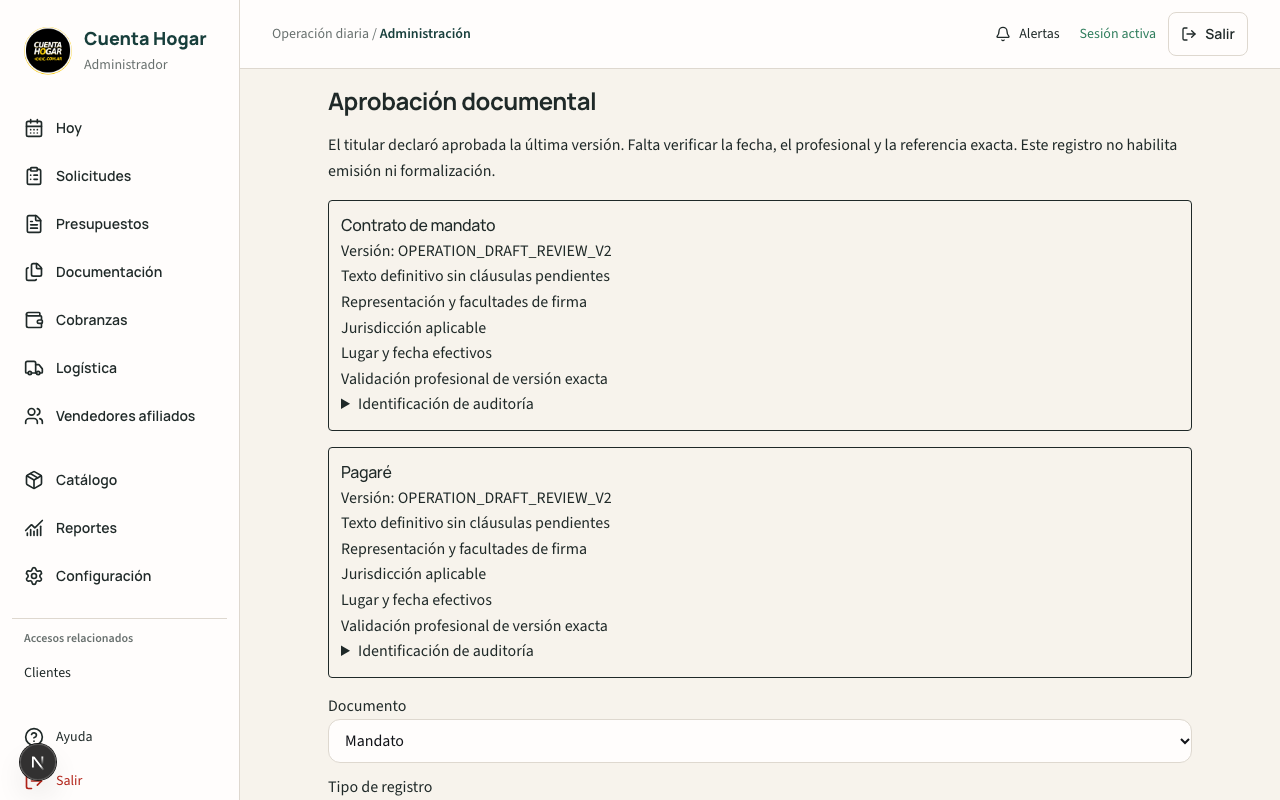
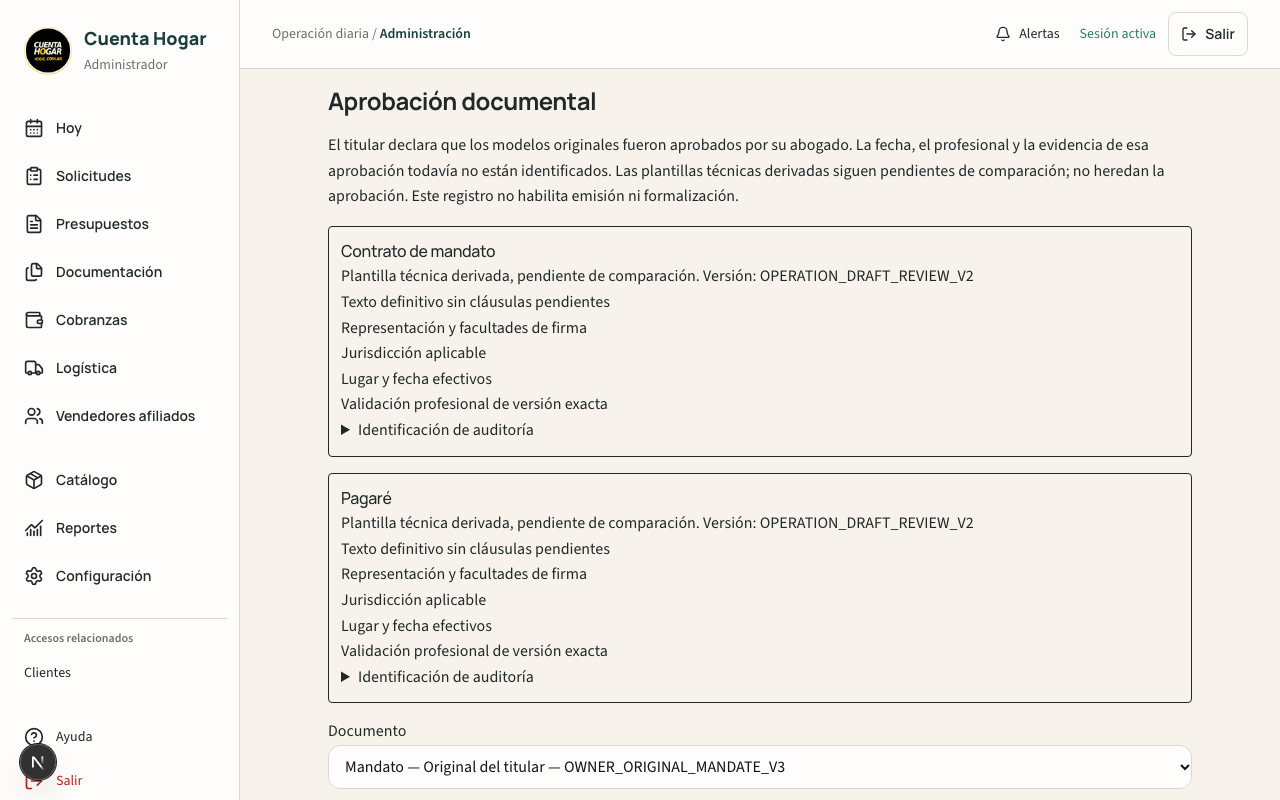
fix: bind legal approvals to exact owner originals

Changed region(s): [[0.25, 0.1562, 0.9062, 1.0], [0.7188, 0.3438, 0.75, 0.375]]

diff --git a/src/app/admin/aprobacion-documental/page.tsx b/src/app/admin/aprobacion-documental/page.tsx
@@ -1,18 +1,18 @@
 'use client';
 import { useCallback,useEffect,useRef,useState } from 'react';
 import { useAuth } from '@/components/AuthProvider';
-import type { LegalArtifact,LegalApprovalRecord } from '@/lib/legalApprovalV2';
+import type { LegalArtifact,LegalApprovalRecord,LegalSource } from '@/lib/legalApprovalV2';
 import { btn,control } from '@/components/admin/contracts/ContractDataFields';
-interface View {artifacts:LegalArtifact[];records:(LegalApprovalRecord&{id:string})[]}
+interface View {registrableArtifacts:(LegalArtifact&{source:LegalSource})[];artifacts:LegalArtifact[];records:(LegalApprovalRecord&{id:string})[]}
 export default function LegalApprovalPage(){
- const {user}=useAuth(),[view,setView]=useState<View|null>(null),[message,setMessage]=useState(''),[busy,setBusy]=useState(false);
+ const {user}=useAuth(),[view,setView]=useState<View|null>(null),[message,setMessage]=useState(''),[busy,setBusy]=useState(false),[selected,setSelected]=useState('owner-original-mandate-v3');
  const flight=useRef(false),pending=useRef<{payload:string;commandId:string}|null>(null);
  const load=useCallback(async()=>{if(!user)return;const r=await fetch('/api/admin/aprobaciones-documentales',{cache:'no-store',headers:{Authorization:`Bearer ${await user.getIdToken()}`}});if(!r.ok)throw Error('No se pudo consultar el registro.');setView(await r.json());},[user]);
  useEffect(()=>{void load().catch(e=>setMessage(e.message));},[load]);
- async function save(form:HTMLFormElement){if(!user||flight.current||!view)return;const f=new FormData(form),artifact=view.artifacts.find(a=>a.kind===f.get('kind'));if(!artifact)return;
- const verified=f.get('status')==='VERIFIED',approval={kind:artifact.kind,version:artifact.version,textHash:artifact.textHash,status:verified?'VERIFIED':'OWNER_REPORTED',approvalDate:verified?String(f.get('date')):null,professional:verified?String(f.get('professional')):null,validationReference:verified?String(f.get('reference')):null,evidence:null};
+ async function save(form:HTMLFormElement){if(!user||flight.current||!view)return;const f=new FormData(form),artifact=view.registrableArtifacts.find(a=>a.source.documentId===f.get('document'));if(!artifact)return;
+ const verified=f.get('status')==='VERIFIED',approval={source:artifact.source,kind:artifact.kind,version:artifact.version,textHash:artifact.textHash,status:verified?'VERIFIED':'OWNER_REPORTED',approvalDate:String(f.get('date')||'').trim()||null,professional:String(f.get('professional')||'').trim()||null,validationReference:String(f.get('reference')||'').trim()||null,evidence:null};
  const payload=JSON.stringify(approval);if(pending.current?.payload!==payload)pending.current={payload,commandId:crypto.randomUUID()};flight.current=true;setBusy(true);setMessage('');
  try{const r=await fetch('/api/admin/aprobaciones-documentales',{method:'POST',headers:{Authorization:`Bearer ${await user.getIdToken()}`,'Content-Type':'application/json'},body:JSON.stringify({commandId:pending.current.commandId,approval})});if(!r.ok)throw Error((await r.json()).error);pending.current=null;await load();setMessage('Registro guardado. La emisión productiva continúa bloqueada.');}catch(e){setMessage(e instanceof Error?e.message:'No se confirmó el registro.');}finally{flight.current=false;setBusy(false);}
  }
- return <main className="mx-auto max-w-4xl space-y-4 p-4"><h1 className="text-2xl font-bold">Aprobación documental</h1><p>El titular declaró aprobada la última versión. Falta verificar la fecha, el profesional y la referencia exacta. Este registro no habilita emisión ni formalización.</p>{message&&<p role="status">{message}</p>}{view?.artifacts.map(a=><section className="rounded border p-3" key={a.kind}><h2>{a.kind==='MANDATE'?'Contrato de mandato':'Pagaré'}</h2><p>Versión: {a.version}</p><ul>{a.pending.map(p=><li key={p}>{p}</li>)}</ul><details><summary>Identificación de auditoría</summary><p className="break-all">{a.textHash}</p></details></section>)}<form className="grid gap-3" onSubmit={e=>{e.preventDefault();void save(e.currentTarget);}}><label>Documento<select className={control} name="kind"><option value="MANDATE">Mandato</option><option value="PROMISSORY_NOTE">Pagaré</option></select></label><label>Tipo de registro<select className={control} name="status"><option value="OWNER_REPORTED">Declaración del titular, sin validación documental</option><option value="VERIFIED">Referencia profesional verificada por Administración</option></select></label><label>Fecha de aprobación<input className={control} name="date" type="date"/></label><label>Profesional interviniente<input className={control} name="professional" maxLength={500}/></label><label>Referencia de validación<input className={control} name="reference" maxLength={500}/></label><label><input type="checkbox" required/> Confirmo que el registro corresponde exactamente al texto y la versión indicados</label><button className={btn} disabled={busy}>Registrar validación</button></form><h2>Registros recientes</h2>{view?.records.map(r=><article className="break-words rounded border p-3" key={r.id}>{r.kind} · {r.status==='VERIFIED'?'Referencia profesional registrada':'Declaración pendiente de verificación'} · {r.recordedAt}<p>{r.version} · {r.professional||'Profesional pendiente'}</p></article>)}</main>;
+ return <main className="mx-auto max-w-4xl space-y-4 p-4"><h1 className="text-2xl font-bold">Aprobación documental</h1><p>El titular declara que los modelos originales fueron aprobados por su abogado. La fecha, el profesional y la evidencia de esa aprobación todavía no están identificados. Las plantillas técnicas derivadas siguen pendientes de comparación; no heredan la aprobación. Este registro no habilita emisión ni formalización.</p>{message&&<p role="status">{message}</p>}{view?.artifacts.map(a=><section className="rounded border p-3" key={a.kind}><h2>{a.kind==='MANDATE'?'Contrato de mandato':'Pagaré'}</h2><p>Plantilla técnica derivada, pendiente de comparación. Versión: {a.version}</p><ul>{a.pending.map(p=><li key={p}>{p}</li>)}</ul><details><summary>Identificación de auditoría</summary><p className="break-all">{a.textHash}</p></details></section>)}<form className="grid gap-3" onSubmit={e=>{e.preventDefault();void save(e.currentTarget);}}><label>Documento<select className={control} name="document" value={selected} onChange={e=>setSelected(e.target.value)}>{view?.registrableArtifacts.map(a=><option key={a.source.documentId} value={a.source.documentId}>{a.kind==='MANDATE'?'Mandato':'Pagaré'} — {a.source.type==='ORIGINAL_FILE'?'Original del titular':'Plantilla técnica pendiente'} — {a.version}</option>)}</select></label>{view?.registrableArtifacts.filter(a=>a.source.documentId===selected).map(a=><details key={a.source.documentId} open><summary>Archivo o plantilla que se registrará</summary><p className="break-words">{a.source.reference}</p><p>{a.source.type==='ORIGINAL_FILE'?'Original aprobado según declaración del propietario. Validación profesional exacta pendiente de identificar.':'Plantilla técnica derivada pendiente de comparación con el original.'}</p><p className="break-all">SHA-256 ({a.source.hashBasis==='FILE_BYTES'?'bytes del archivo original':'contenido canónico de plantilla'}): {a.textHash}</p></details>)}<label>Tipo de registro<select className={control} name="status"><option value="OWNER_REPORTED">Declaración del titular, sin validación documental</option><option value="VERIFIED">Referencia profesional verificada por Administración</option></select></label><label>Fecha de aprobación<input className={control} name="date" type="date"/></label><label>Profesional interviniente<input className={control} name="professional" maxLength={500}/></label><label>Referencia de validación<input className={control} name="reference" maxLength={500}/></label><label><input type="checkbox" required/> Confirmo que el registro corresponde exactamente al texto y la versión indicados</label><button className={btn} disabled={busy}>Registrar validación</button></form><h2>Registros recientes</h2>{view?.records.map(r=><article className="break-words rounded border p-3" key={r.id}>{r.kind} · {r.status==='VERIFIED'?'Referencia profesional registrada':'Declaración pendiente de verificación'} · {r.recordedAt}<p>{r.source?.reference||'Referencia histórica sin procedencia registrada'}</p><p>{r.version} · {r.professional||'Profesional pendiente'}</p><details><summary>Auditoría del registro</summary><p className="break-all">SHA-256: {r.textHash}</p><p>Fecha de aprobación: {r.approvalDate||'No identificada'}</p><p>Referencia: {r.validationReference||'Pendiente'}</p><p className="break-all">Responsable del registro: {r.recordedBy}</p>{r.evidence&&<p className="break-all">Evidencia privada: {r.evidence.path} · Generación: {r.evidence.generation} · SHA-256: {r.evidence.sha256}</p>}</details></article>)}</main>;
 }

diff --git a/src/lib/legalApprovalV2.ts b/src/lib/legalApprovalV2.ts
@@ -6,7 +6,9 @@ import { OPERATION_DOCUMENT_VERSION } from './contractDocuments/operationDraft';
 
 export type LegalKind = 'MANDATE' | 'PROMISSORY_NOTE';
 export interface LegalArtifact {kind:LegalKind;version:string;textHash:string;pending:string[]}
+export interface LegalSource {documentId:string;reference:string;type:'ORIGINAL_FILE'|'TECHNICAL_TEMPLATE';hashBasis:'FILE_BYTES'|'CANONICAL_TEMPLATE'}
 export interface LegalApprovalRecord {
+ source?:LegalSource;
  schemaVersion:'LEGAL_APPROVAL_V1';kind:LegalKind;version:string;textHash:string;
  status:'OWNER_REPORTED'|'VERIFIED';approvalDate:string|null;professional:string|null;validationReference:string|null;
  evidence:{path:string;sha256:string;generation:string}|null;recordedBy:string;recordedAt:string;
@@ -16,19 +18,32 @@ export const currentLegalArtifacts:readonly LegalArtifact[]=(['MANDATE','PROMISS
  kind,version:OPERATION_DOCUMENT_VERSION,textHash:digest({kind,version:OPERATION_DOCUMENT_VERSION,issuer:contractLegalEntity,text:kind==='MANDATE'?draftClauses:noteDraftText}),
  pending:['Texto definitivo sin cláusulas pendientes','Representación y facultades de firma','Jurisdicción aplicable','Lugar y fecha efectivos','Validación profesional de versión exacta'],
 }));
-export const ownerLegalDeclaration={status:'OWNER_REPORTED' as const,scope:'Última versión, según declaración del titular',verifiedVersion:null,approvalDate:null,professional:null,validationReference:null};
+export const originalLegalArtifacts = [
[2 lines of base64/hex data omitted]
+];
+export const registrableLegalArtifacts = [...originalLegalArtifacts,...currentLegalArtifacts.map(a=>({...a,source:{documentId:'technical-'+a.kind.toLowerCase(),reference:'src/lib/contractDocuments/operationDraftTemplates.ts',type:'TECHNICAL_TEMPLATE' as const,hashBasis:'CANONICAL_TEMPLATE' as const}}))];
+/** Validate new references only; historical records and their command digests remain untouched. */
+export function assertRegistrableApproval(a:ReturnType<typeof approvalInput>) {
+ const found=registrableLegalArtifacts.find(v=>v.kind===a.kind&&v.version===a.version&&v.textHash===a.textHash);
+ if(!found || (a.source ? stable(a.source)!==stable(found.source) : found.source.type==='ORIGINAL_FILE')) throw Error('LEGAL_SOURCE_INCONSISTENT');
+}
+export const ownerLegalDeclaration={status:'OWNER_REPORTED' as const,scope:'Modelos originales entregados, aprobados según declaración del titular; no se transfiere aprobación a plantillas derivadas',verifiedVersion:null,approvalDate:null,professional:null,validationReference:null};
 function fail():never {throw Error('LEGAL_APPROVAL_INVALID');}
 function text(v:unknown,max=500):string {if(typeof v!=='string'||!v.trim()||v.length>max)fail();return v;}
 export function approvalInput(input:unknown) {
- const d=exact(input,['kind','version','textHash','status','approvalDate','professional','validationReference','evidence']);
+ const hasSource=!!input&&typeof input==='object'&&Object.hasOwn(input,'source');
+ const d=exact(input,[...(hasSource?['source']:[]),'kind','version','textHash','status','approvalDate','professional','validationReference','evidence']);
  if(!['MANDATE','PROMISSORY_NOTE'].includes(String(d.kind))||!['OWNER_REPORTED','VERIFIED'].includes(String(d.status))||! /^[a-f0-9]{64}$/.test(String(d.textHash)))fail();text(d.version,120);
- if(d.status==='OWNER_REPORTED') {if([d.approvalDate,d.professional,d.validationReference,d.evidence].some(v=>v!==null))fail();}
- else {
-  if(typeof d.approvalDate!=='string'||!/^\d{4}-\d{2}-\d{2}$/.test(d.approvalDate)||new Date(d.approvalDate).toISOString().slice(0,10)!==d.approvalDate||d.approvalDate>new Date().toISOString().slice(0,10))fail();
-  text(d.professional);text(d.validationReference);
-  // Private evidence is optional; a verified professional reference is mandatory.
-  if(d.evidence!==null){const e=exact(d.evidence,['path','sha256','generation']);if(typeof e.path!=='string'||!/^legal-approvals\/[a-zA-Z0-9_-]+\/[a-zA-Z0-9_.-]+$/.test(e.path)||! /^[a-f0-9]{64}$/.test(String(e.sha256)))fail();text(e.generation,100);}
+ if(hasSource){const source=exact(d.source,['documentId','reference','type','hashBasis']);text(source.documentId,120);text(source.reference,500);if(!['ORIGINAL_FILE','TECHNICAL_TEMPLATE'].includes(String(source.type))||source.hashBasis!==(source.type==='ORIGINAL_FILE'?'FILE_BYTES':'CANONICAL_TEMPLATE'))fail();}
+ // Missing professional metadata never upgrades an owner declaration.
+ if(d.status==='VERIFIED'&&[d.approvalDate,d.professional,d.validationReference].some(v=>v===null))fail();
+ if(d.approvalDate!==null){
+  if(typeof d.approvalDate!=='string'||!/^\d{4}-\d{2}-\d{2}$/.test(d.approvalDate)||!Number.isFinite(Date.parse(d.approvalDate))||new Date(d.approvalDate).toISOString().slice(0,10)!==d.approvalDate||d.approvalDate>new Date().toISOString().slice(0,10))fail();
  }
+ if(d.professional!==null)text(d.professional);
+ if(d.validationReference!==null)text(d.validationReference);
+ if(d.evidence!==null){const e=exact(d.evidence,['path','sha256','generation']);if(typeof e.path!=='string'||!/^legal-approvals\/[a-zA-Z0-9_-]+\/[a-zA-Z0-9_.-]+$/.test(e.path)||! /^[a-f0-9]{64}$/.test(String(e.sha256)))fail();text(e.generation,100);}
  return d as unknown as Omit<LegalApprovalRecord,'schemaVersion'|'recordedBy'|'recordedAt'>;
 }
 /** Eligibility only. No emitter/numbering capability or runtime flag is created here. */
@@ -37,7 +52,7 @@ export function legalIssuanceAssessment(artifacts:readonly LegalArtifact[],recor
  for(const kind of ['MANDATE','PROMISSORY_NOTE'] as const){const artifact=artifacts.find(a=>a.kind===kind);if(!artifact||artifacts.filter(a=>a.kind===kind).length!==1){reasons.push(kind+'_ARTIFACT_REQUIRED');continue;}
   if(artifact.pending.length)reasons.push(kind+'_TEXT_PENDING');
   const matching=records.find(r=>r.kind===kind&&r.version===artifact.version&&r.textHash===artifact.textHash&&r.status==='VERIFIED');
-  if(!matching)reasons.push(kind+'_EXACT_APPROVAL_REQUIRED');else {try{const {schemaVersion,recordedBy,recordedAt,kind,version,textHash,status,approvalDate,professional,validationReference,evidence}=matching;const input={kind,version,textHash,status,approvalDate,professional,validationReference,evidence};if(schemaVersion!=='LEGAL_APPROVAL_V1')fail();text(recordedBy);if(!Number.isFinite(Date.parse(recordedAt)))fail();approvalInput(input);}catch{reasons.push(kind+'_APPROVAL_INVALID');}}
+  if(!matching)reasons.push(kind+'_EXACT_APPROVAL_REQUIRED');else {try{const {schemaVersion,recordedBy,recordedAt,kind,version,textHash,status,approvalDate,professional,validationReference,evidence,source}=matching;const input={...(source?{source}:{}),kind,version,textHash,status,approvalDate,professional,validationReference,evidence};if(schemaVersion!=='LEGAL_APPROVAL_V1')fail();text(recordedBy);if(!Number.isFinite(Date.parse(recordedAt)))fail();approvalInput(input);}catch{reasons.push(kind+'_APPROVAL_INVALID');}}
  }
  if(!formalDataComplete)reasons.push('FORMAL_DATA_REQUIRED');
  return {legalPrerequisitesSatisfied:reasons.length===0,productiveIssuanceEnabled:false as const,reasons:[...reasons,'INDEPENDENT_PRODUCTION_AUTHORIZATION_REQUIRED']};

diff --git a/scripts/testLegalApprovalEmulator.ts b/scripts/testLegalApprovalEmulator.ts
@@ -3,7 +3,7 @@ import assert from 'node:assert/strict';
 import { createHash } from 'node:crypto';
 import { getBudgetDocumentationBucket } from '../src/lib/budgetDocumentationStorage';
 import { admin } from '../src/lib/firebaseAdmin';
-import { currentLegalArtifacts } from '../src/lib/legalApprovalV2';
+import { currentLegalArtifacts,originalLegalArtifacts } from '../src/lib/legalApprovalV2';
 import { recordLegalApproval,legalRegistryRef,readLegalRegistry } from '../src/lib/legalApprovalV2Server';
 import * as route from '../src/app/api/admin/aprobaciones-documentales/route';
 async function main(){const db=admin.firestore(),a=currentLegalArtifacts[0],approval={kind:a.kind,version:a.version,textHash:a.textHash,status:'OWNER_REPORTED',approvalDate:null,professional:null,validationReference:null,evidence:null},command={commandId:'synthetic-legal-record',approval};
@@ -19,5 +19,14 @@ async function main(){const db=admin.firestore(),a=currentLegalArtifacts[0],appr
  const evidence={path,sha256:createHash('sha256').update(bytes).digest('hex'),generation:String(meta.generation)};
  await recordLegalApproval(db,{commandId:'synthetic-private-proof',approval:{...verified,evidence}},'synthetic-admin');
  await assert.rejects(recordLegalApproval(db,{commandId:'wrong-proof',approval:{...verified,evidence:{...evidence,sha256:'0'.repeat(64)}}},'synthetic-admin'));
- assert.equal((await ref.parent.get()).size,3);console.log('LEGAL_REGISTRY_EMULATOR_ATOMIC_REPLAY_AUTHORIZATION=PASS');
+ const original={...originalLegalArtifacts[0],status:'OWNER_REPORTED',approvalDate:null,professional:null,validationReference:null,evidence:null};
+ await recordLegalApproval(db,{commandId:'synthetic-original',approval:original},'synthetic-admin');
+ const originalRef=ref.parent.doc('synthetic-original'),originalBefore=await originalRef.get();
+ await recordLegalApproval(db,{commandId:'synthetic-original',approval:original},'synthetic-admin');
+ assert((await originalRef.get()).updateTime!.isEqual(originalBefore.updateTime!));
+ assert.equal(originalBefore.data()!.status,'OWNER_REPORTED');
+ await assert.rejects(recordLegalApproval(db,{commandId:'inconsistent-source',approval:{...original,source:{...original.source,reference:'wrong.pdf'}}},'synthetic-admin'));
+ await assert.rejects(recordLegalApproval(db,{commandId:'unknown-version',approval:{...approval,version:'UNKNOWN'}},'synthetic-admin'));
+ assert((await ref.get()).updateTime!.isEqual(before.updateTime!));
+ assert.equal((await ref.parent.get()).size,4);console.log('LEGAL_REGISTRY_EMULATOR_ATOMIC_REPLAY_AUTHORIZATION=PASS');
 }main().then(()=>admin.app().delete()).catch(e=>{console.error(e.message);process.exitCode=1;});

diff --git a/src/lib/legalApprovalV2Server.ts b/src/lib/legalApprovalV2Server.ts
@@ -2,7 +2,7 @@ import type { Firestore } from 'firebase-admin/firestore';
 import { exact,opaque,stable } from './contractV2';
 import { createHash } from 'node:crypto';
 import { getBudgetDocumentationBucket } from './budgetDocumentationStorage';
-import { approvalInput,currentLegalArtifacts,ownerLegalDeclaration } from './legalApprovalV2';
+import { approvalInput,currentLegalArtifacts,ownerLegalDeclaration,registrableLegalArtifacts,assertRegistrableApproval } from './legalApprovalV2';
 // Existing server-only subtree. No Firestore Rules changes or client writes.
 export const legalRegistryRef=(db:Firestore)=>db.collection('presupuestos_v2').doc('_legal_registry_v1').collection('contracts').doc('registry');
 export async function recordLegalApproval(db:Firestore,input:unknown,actor:string) {
@@ -10,6 +10,7 @@ export async function recordLegalApproval(db:Firestore,input:unknown,actor:strin
  const approval=approvalInput(c.approval),ref=legalRegistryRef(db).collection('records').doc(String(c.commandId));
  const digest=createHash('sha256').update(stable({actor,approval})).digest('hex');
  const existing=await ref.get();if(existing.exists){if(existing.data()!.digest!==digest)throw Error('LEGAL_COMMAND_CONFLICT');return {id:ref.id,replay:true};}
+ assertRegistrableApproval(approval);
  // Storage I/O stays outside Firestore retries; the reference pins the verified generation.
  if(approval.evidence){const e=approval.evidence,bucket=await getBudgetDocumentationBucket(),file=bucket.file(e.path),[metadata]=await file.getMetadata();
   if(String(metadata.generation)!==e.generation||Number(metadata.size)>10485760||Number(metadata.size)<1||metadata.metadata?.firebaseStorageDownloadTokens)throw Error('PRIVATE_LEGAL_EVIDENCE_INVALID');
@@ -22,5 +23,5 @@ export async function recordLegalApproval(db:Firestore,input:unknown,actor:strin
 }
 export async function readLegalRegistry(db:Firestore) {
  const records=await legalRegistryRef(db).collection('records').orderBy('recordedAt','desc').limit(100).get();
- return {artifacts:currentLegalArtifacts,declaration:ownerLegalDeclaration,records:records.docs.map(d=>{const {digest,...record}=d.data();void digest;return {id:d.id,...record};}),productiveIssuanceEnabled:false,limit:100};
+ return {artifacts:currentLegalArtifacts,registrableArtifacts:registrableLegalArtifacts,declaration:ownerLegalDeclaration,records:records.docs.map(d=>{const {digest,...record}=d.data();void digest;return {id:d.id,...record};}),productiveIssuanceEnabled:false,limit:100};
 }

diff --git a/scripts/testLegalApprovalV2.ts b/scripts/testLegalApprovalV2.ts
@@ -1,5 +1,5 @@
 import assert from 'node:assert/strict';
-import { approvalInput,currentLegalArtifacts,legalIssuanceAssessment,type LegalApprovalRecord } from '../src/lib/legalApprovalV2';
+import { approvalInput,originalLegalArtifacts,assertRegistrableApproval,currentLegalArtifacts,legalIssuanceAssessment,type LegalApprovalRecord } from '../src/lib/legalApprovalV2';
 for(const a of currentLegalArtifacts){assert.equal(a.textHash.length,64);assert(a.pending.length);}
 assert.equal(legalIssuanceAssessment(currentLegalArtifacts,[],true).legalPrerequisitesSatisfied,false);
 const artifacts=currentLegalArtifacts.map(a=>({...a,pending:[]}));
@@ -15,3 +15,16 @@ assert.equal(legalIssuanceAssessment(artifacts,records.map(r=>({...r,status:'OWN
 assert.equal(legalIssuanceAssessment(artifacts,records.map(r=>({...r,professional:null})),true).legalPrerequisitesSatisfied,false);
 for(const invalid of ['2026-02-30','2099-01-01']){const {schemaVersion,recordedBy,recordedAt,...input}=records[0];void schemaVersion;void recordedBy;void recordedAt;assert.throws(()=>approvalInput({...input,approvalDate:invalid}));}
 console.log('LEGAL_EXACT_VERSION_DECLARATION_SEPARATION_FORMAL_DATA_PRODUCTIVE_BLOCK=PASS');
+
+for(const original of originalLegalArtifacts){
+ const approval=approvalInput({...original,status:'OWNER_REPORTED',approvalDate:null,professional:null,validationReference:null,evidence:null});
+ assertRegistrableApproval(approval);
+ assert.throws(()=>assertRegistrableApproval({...approval,textHash:'0'.repeat(64)}));
+ assert.throws(()=>assertRegistrableApproval({...approval,source:{...original.source,reference:'wrong.pdf'}}));
+ const record:LegalApprovalRecord={...approval,schemaVersion:'LEGAL_APPROVAL_V1',recordedBy:'synthetic-admin',recordedAt:'2026-01-01T00:00:00Z'};
+ assert.equal(legalIssuanceAssessment(artifacts,[record],true).legalPrerequisitesSatisfied,false);
+ assert.equal(legalIssuanceAssessment(artifacts,[{...record,status:'VERIFIED',approvalDate:'2026-01-01',professional:'Synthetic professional',validationReference:'Synthetic reference'}],true).legalPrerequisitesSatisfied,false);
+}
+console.log('ORIGINAL_HASH_SOURCE_ISOLATION_NO_APPROVAL_TRANSFER=PASS');
+
+assert.equal(approvalInput({...originalLegalArtifacts[0],status:'OWNER_REPORTED',approvalDate:'2026-01-01',professional:null,validationReference:'Declaración sintética',evidence:null}).status,'OWNER_REPORTED');

diff --git a/scripts/testLegalApprovalBrowser.ts b/scripts/testLegalApprovalBrowser.ts
@@ -9,6 +9,6 @@ export async function testLegalApprovalBrowser(){
  const browser=await CatalogBrowser.open(),out='/tmp/ch-legal-browser';mkdirSync(out,{recursive:true});
  try{await browser.navigate('/login');await browser.until("typeof window.__FIREBASE_SIGN_IN__==='function'",'auth');await browser.evaluate(`window.__FIREBASE_SIGN_IN__(${JSON.stringify(adminEmail)},${JSON.stringify(adminPassword)}).then(()=>true)`);await browser.navigate('/admin/aprobacion-documental');await browser.until("document.body.innerText.includes('Identificación de auditoría')",'legal registry');
  for(const [width,height,mobile]of [[1280,800,false],[390,844,true]] as const){await browser.command('Emulation.setDeviceMetricsOverride',{width,height,mobile,deviceScaleFactor:1});await browser.overflow('legal '+width);const img=await browser.command('Page.captureScreenshot',{format:'png',captureBeyondViewport:false});writeFileSync(`${out}/${width}.png`,Buffer.from(img.data as string,'base64'));}
- await browser.click('input[type=checkbox]');await browser.clickText('Registrar validación');await browser.until("document.body.innerText.includes('Registro guardado.')",'declaration saved');assert(await browser.evaluate("document.body.innerText.includes('Declaración pendiente de verificación')"));assert.deepEqual(browser.externalFirebase,[]);console.log('LEGAL_ADMIN_BROWSER_DESKTOP_MOBILE_DECLARATION=PASS');
+ assert(await browser.evaluate("document.body.innerText.includes('no heredan la aprobación')"));assert.equal(await browser.evaluate("document.querySelector('select[name=document]').options.length"),4);await browser.click('input[type=checkbox]');await browser.clickText('Registrar validación');await browser.until("document.body.innerText.includes('Registro guardado.')",'declaration saved');assert(await browser.evaluate("document.body.innerText.includes('Declaración pendiente de verificación')"));assert.deepEqual(browser.externalFirebase,[]);console.log('LEGAL_ADMIN_BROWSER_DESKTOP_MOBILE_DECLARATION=PASS');
  }finally{await browser.close();}
 }

diff --git a/docs/integration-final-v2/ORIGINALS_MATRIX.md b/docs/integration-final-v2/ORIGINALS_MATRIX.md
@@ -1,0 +1,47 @@
+# Originales del titular y plantillas derivadas — PR75
+
+## Procedencia comprobada
+
+Archivos entregados por el propietario, conservados en su carpeta Downloads. SHA-256 de bytes recalculado y coincidente con `docs/OPERATION_CONTRACT_DRAFT_PREVIEWS.md`. No se suben originales a Git ni a Storage. No se selecciona otro archivo más reciente por su nombre.
+
+| ID documental | Versión de registro | Archivo | SHA-256 de bytes |
+|---|---|---|---|
+| owner-original-mandate-v3 | OWNER_ORIGINAL_MANDATE_V3 | Contrato de Mandato Comercial - Cuenta Hogar SRL V3.pdf | 8e23a3734506a63920de1b75a3fdcb4f0c6fe88c13c1941b3357ebd9e1a3b4d6 |
+| owner-original-note | OWNER_ORIGINAL_NOTE_UNVERSIONED | Pagaré a la Vista (Sin Garante) - Cuenta Hogar SRL.pdf | 6f22b6f9bae6fd75f989ed9fb33ef53052832a43fff5d3f52fd30db56c3253b6 |
+
+UNVERSIONED es una etiqueta técnica: el pagaré no tiene número de versión documentado. No representa una fecha de aprobación. Ambos originales están aprobados **según declaración del propietario**. Profesional, fecha y referencia de validación no disponibles. No se requiere repetir esa revisión: se requiere identificar su evidencia y comprobar las diferencias de las plantillas derivadas. Las propuestas de `docs/legal-review/` no sustituyen estos originales.
+
+## Matriz de diferencias de contenido
+
+Comparación del texto de todas las páginas originales (mandato 3; pagaré 2) con `operationDraftTemplates.ts` y la proyección vigente. Esta matriz no aprueba modificaciones jurídicas.
+
+| Clase | Original | Plantilla/proyección vigente | Tratamiento pendiente |
+|---|---|---|---|
+| Variable de operación | Cliente, DNI/CUIL, domicilio, contacto en blanco | Datos persistidos del borrador; faltantes explícitos | Completar mediante circuito autorizado, sin inferencias |
+| Variable de operación | Cantidad, descripción y nuevo/usado | Snapshot aceptado y cantidad/condición guardadas | No inferir condición ni cambiar Acceptance |
+| Variable económica | Casilleros de importes y fechas | Capital, servicios brutos, total y cronograma persistidos; pagaré por mismo total | Sin recalcular en PDF ni sumar IVA a cuotas |
+| Tipografía | Letter; pagaré con datos del deudor en segunda página | A4, fuentes locales, tablas, texto seleccionable, paginado | No implica aprobación del texto |
+| Presentación | Modelos originales | Mandato con logo oficial; pagaré sin logo; advertencia BORRADOR — NO VÁLIDO PARA FIRMA | Conservar advertencia y ninguna numeración definitiva |
+| Contenido jurídico | Mandato irrevocable | Mandato específico, representación limitada, sin irrevocabilidad | Comprobar contra aprobación profesional; no equivalencia automática |
+| Contenido jurídico | Factura supeditada a disponibilidad/origen | Factura a nombre del cliente para producto nuevo; tratamiento específico de usados | Validación de cambio de redacción |
+| Contenido económico | Valor neto + gestión/logística, CFT, total a financiar | Capital + Servicios de Cuenta Hogar; no CFT; IVA contenido según modelo fiscal persistido | No inventar distribución entre gestión, entrega y asistencia técnica por tres años |
+| Contenido económico | Anticipo opcional y cuotas del 1 al 10 | Sin anticipo; cronograma individual persistido | No trasladar anticipo ni fechas genéricas |
+| Contenido jurídico | Una cuota impaga, punitorio mensual | Sin recargos automáticos; propuesta de dos cuotas, intimación y diez días | Cambio material pendiente de comprobación; no habilita ejecución |
+| Contenido jurídico | Remito implica conformidad exterior y funcionamiento | Tres firmas, custodia, observaciones; no certificación técnica ni renuncia general | Comprobar texto y circuito legal |
+| Contenido jurídico | Garantía exclusivamente proveedor, usado tal como está; exclusiones amplias | No se trasladan exclusiones generales; revisión según operación | Validación profesional de texto derivado |
+| Pagaré jurídico | A quien designe, Art. 50, punitorios capitalizables, caducidad y renuncia de fuero | Beneficiario LOOP; sin intereses/capitalización; exigibilidad y coordinación pendientes | No atribuir aprobación del original a estas diferencias |
+| Formal | CUIT y domicilio societario en blanco | LOOP GESTIÓN INTEGRAL S.R.L.; 30-71962686-2; Caracas 1101, CABA, CP1431 | Datos confirmados por titular, no sustituyen facultades de firma |
+| Formal | Representante nombrado en original; jurisdicción/lugar/fecha en blanco | Facultades, jurisdicción y lugar/fecha efectivos pendientes | No inferir facultades ni jurisdicción desde domicilio |
+
+## Estados y compatibilidad
+
+- Original: `source.type=ORIGINAL_FILE`, `hashBasis=FILE_BYTES`, `OWNER_REPORTED` mientras sólo conste la declaración.
+- Versión profesional identificada: `VERIFIED` exige fecha válida, profesional y referencia. Registro administrativo, no habilitación de emisión.
+- Plantilla derivada: `TECHNICAL_TEMPLATE`, `CANONICAL_TEMPLATE`; comparación pendiente aunque el original esté aprobado.
+- `source` agrega documento, referencia y semántica de hash a los nuevos registros. Los registros anteriores sin source permanecen legibles, con digest, fecha y updateTime intactos; no se migran. Replay exacto devuelve el registro existente antes de validar el catálogo actual, preservando comandos históricos.
+- Nuevos comandos sólo aceptan combinaciones exactas del catálogo versionado del servidor. Referencias desconocidas o hash/version/archivo inconsistentes se rechazan. Historia append-only; actor y hora del servidor, sin actualización de registros.
+- El registro no invoca numeración, snapshots, formalización, entrega, invitaciones ni cobranza. `productiveIssuanceEnabled` siempre false. Todas las futuras habilitaciones requieren aprobación independiente.
+
+## Pendientes reales
+
+Identificar evidencia de revisión ya realizada (fecha/profesional/referencia cuando estén disponibles); comprobar cambios materiales de las plantillas; confirmar facultades, jurisdicción y parámetros de emisión; resolver alcance/distribución de servicios sin porcentajes inventados. No se cambia economía ni se activa ARCA. No hubo escrituras productivas.

diff --git a/docs/integration-final-v2/LEGAL_REGISTRY.md b/docs/integration-final-v2/LEGAL_REGISTRY.md
@@ -2,9 +2,9 @@
 
 Acceso: Administración → Documentación → Aprobación documental. API administrativa `/api/admin/aprobaciones-documentales`.
 
-Se conserva la declaración del titular («la última») como OWNER_REPORTED. No se inventan fecha, profesional ni evidencia. VERIFIED exige fecha válida no futura, profesional y referencia de su validación. La confirmación administrativa identifica versión y hash exactos; registrar una referencia no habilita emisión.
+Se conserva la declaración del titular sobre los originales identificados como OWNER_REPORTED. No se inventan fecha, profesional ni evidencia; los datos parciales disponibles pueden registrarse sin promover la declaración a VERIFIED. VERIFIED exige fecha válida no futura, profesional y referencia de su validación. La confirmación administrativa identifica versión y hash exactos; registrar una referencia no habilita emisión.
 
-Cada documento posee hash SHA-256 del contenido canónico de sus cláusulas/texto, identificación societaria, tipo y versión. Es un hash del texto de plantilla, distinto del hash del PDF particular, renderer o snapshot económico. Las versiones históricas de referencia y las propuestas de `docs/legal-review` no reciben aprobación por asociación.
+Cada plantilla técnica posee hash SHA-256 del contenido canónico de sus cláusulas/texto, identificación societaria, tipo y versión. Los originales se identifican por SHA-256 de sus bytes, con origen y semántica separados. Es un hash del texto de plantilla, distinto del hash del PDF particular, renderer o snapshot económico. Las versiones históricas de referencia y las propuestas de `docs/legal-review` no reciben aprobación por asociación.
 
 Persistencia inmutable: `presupuestos_v2/_legal_registry_v1/contracts/registry/records/{commandId}`. El subtree existente es exclusivamente de servidor bajo las Rules actuales. Cada registro guarda actor, fecha del servidor, tipo, versión, hash, clasificación, fecha de aprobación, profesional, referencia y evidencia privada opcional. Un commandId idéntico devuelve el registro previo; otro payload o actor con ese ID es rechazado. No se escribe un registro por consultar la pantalla.
 
@@ -17,3 +17,24 @@ Pruebas: identidad/hash distinto bloquea, declaración no sustituye validación,
 Resultados ejecutados: modelo puro PASS; Emulator con evidencia Storage sintética PASS; navegador administrativo desktop/mobile y registro de declaración PASS; TypeScript, ESLint diferencial, build y test:safe PASS. Capturas en `docs/evidence/legal-approval-registry/`. Los datos creados por el runner nunca acreditan aprobación jurídica real.
 
 Actualización de integración: main `e39186b1495940539b9137a91659b53d48160e0e`, con #74 conservado. Sin conflictos textuales ni cambios de validación jurídica. Revalidado junto a #76/#77 en `9cda5b03f0a463d5d792e979ed10ffca64312f6d`: TypeScript, ESLint diferencial, build, test:safe, Emulator jurídico y navegador desktop/mobile PASS. Ninguna declaración o registro administrativo habilita emisión definitiva.
+
+## Actualización contra main 49cc1d0
+
+Se integraron PR74/76/77 sin conflictos. Ver [procedencia y matriz de originales](ORIGINALS_MATRIX.md). La declaración del propietario se refiere a los originales identificados, no a la última plantilla técnica. El selector muestra cuatro referencias separadas; no se copia ni transforma ningún archivo histórico.
+
+### Validación de esta actualización
+
+| Verificación | Resultado |
+|---|---|
+| TypeScript; ESLint diferencial; build; test:safe | PASS |
+| Modelo jurídico: hashes, fuentes, declaración parcial, no transferencia de aprobación | PASS |
+| Emulator jurídico: concurrencia, replay/updateTime, auditoría, permisos, evidencia privada, referencias inconsistentes | PASS |
+| Recorrido integral y controles de contrato/entrega | PASS |
+| Revocación de cliente (#74), fiscal/IVA incluido (#76), finanzas y afiliados | PASS |
+| Navegador tres portales (#77): reconexión, respuestas antiguas, paginación, acceso cruzado | PASS |
+| Navegador registro jurídico desktop/mobile; desbordamientos | PASS / 0 |
+| Regresiones PDF 1..18 cuotas y comparación exacta snapshot/PDF de 12 cuotas | PASS |
+
+Comandos: `npx tsc --noEmit`, `npx eslint` sobre los seis archivos TypeScript modificados, `npm run build`, `npm run test:safe`, `tsx scripts/testLegalApprovalV2.ts`, `tsx scripts/testOperationDraftDocuments.ts`, `tsx scripts/testFiscalV2.ts`. Suites Emulator: `testV2IntegralJourney`, `testContractDeliveryFinancialControls`, `testOperationClientV2Emulator`, `testLegalApprovalEmulator`, `testFiscalV2Emulator`, `testOperationFinancialV2Emulator`, `testAffiliateIntegrationV2Emulator`. Navegador: `testOperationFinancialV2Browser`, `testLegalApprovalBrowser` con Next local, Auth/Firestore/Storage Emulator y proyecto demo-cuenta-hogar. Evidencias y hashes de logs: `docs/evidence/legal-approval-registry/validation.json`.
+
+Los originales fueron además inspeccionados visualmente en sus cinco páginas. Los PDFs históricos y las plantillas técnicas no se modificaron. No hay migración, nuevos permisos ni cambios fiscales/financieros; los registros históricos sin procedencia siguen legibles, sin reescritura. Cero escrituras productivas.
